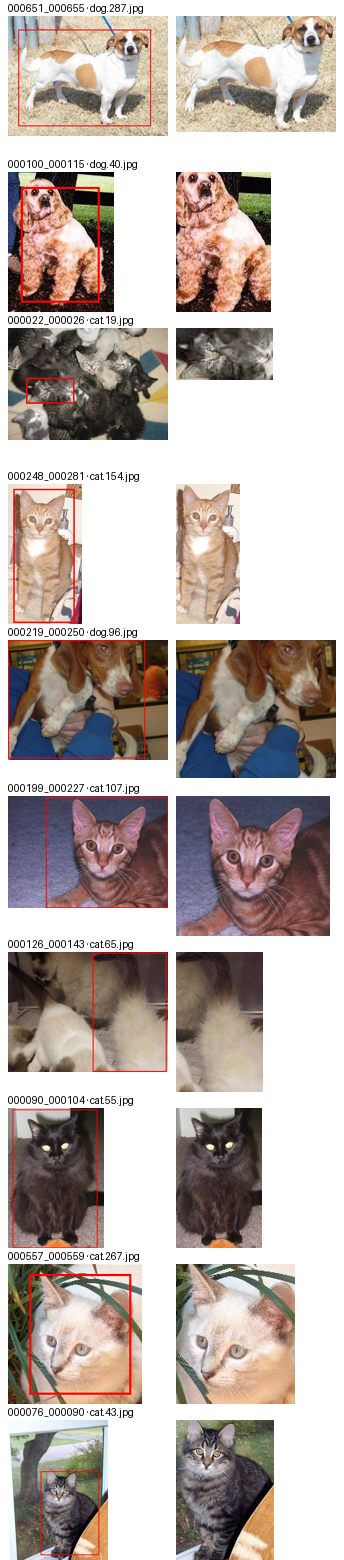
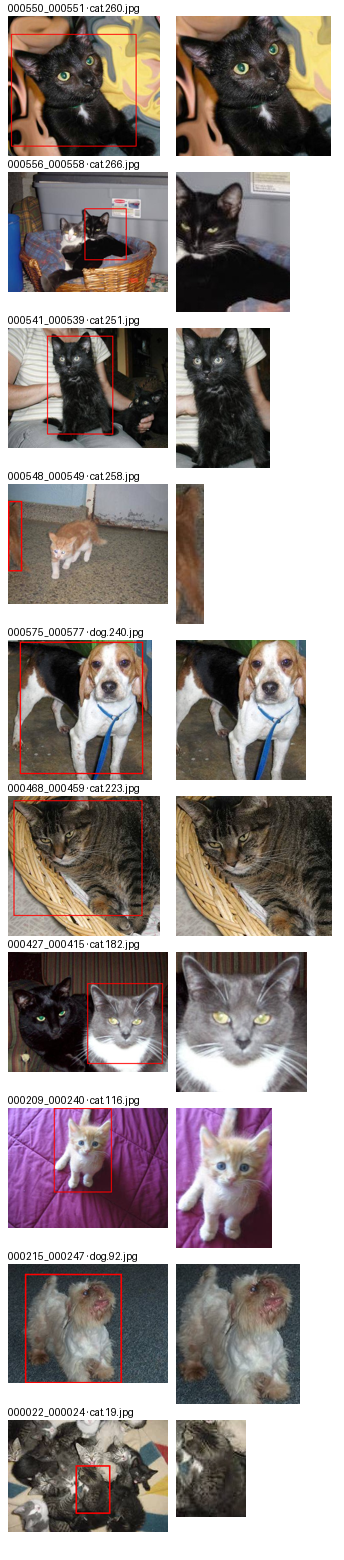
fix: selección determinística sin random en la auditoría (S2245) (P3-04)
SonarCloud marcaba python:S2245 por usar random (aunque fuera con semilla fija).
Se ordena por sha256(seed:crop_id), igual de determinístico y sin el hallazgo.
Se regeneran la auditoría y el dvc.lock.

diff --git a/app/crops/audit.py b/app/crops/audit.py
@@ -8,7 +8,7 @@ La comparación visual y la firma son humanas.
 
 import argparse
 import csv
-import random
+import hashlib
 import sys
 from pathlib import Path
 
@@ -31,10 +31,18 @@ def read_catalog(path: Path) -> list[dict]:
 def select_audit_samples(
     crops: list[dict], count: int = AUDIT_SAMPLES, seed: int = AUDIT_SEED
 ) -> list[dict]:
-    """Muestra determinística: misma lista y misma semilla dan los mismos recortes."""
+    """Muestra determinística: misma lista y misma semilla dan los mismos recortes.
+
+    Ordena por un hash `sha256` que incluye la semilla, en vez de `random`, para
+    no depender del generador pseudoaleatorio (evita el hallazgo S2245).
+    """
     if len(crops) <= count:
         return list(crops)
-    return random.Random(seed).sample(crops, count)
+
+    def rank(crop: dict) -> str:
+        return hashlib.sha256(f"{seed}:{crop['crop_id']}".encode()).hexdigest()
+
+    return sorted(crops, key=rank)[:count]
 
 
 def _source_with_box(sample: dict, images_dir: Path) -> Image.Image:

diff --git a/reports/crop_audit.md b/reports/crop_audit.md
@@ -6,15 +6,15 @@ Muestra de **10** recortes al azar (semilla `42`) de **668** recortes válidos. 
 
 | # | crop_id | origen | annotation_id | categoría | bbox (x, y, w, h) | recorte |
 |---|---|---|---|---|---|---|
-| 1 | `000651_000655` | `dog.287.jpg` | 655 | dog | (32.41015625, 42.66015625, 414.1171875, 300.61328125) | 415x302 |
-| 2 | `000100_000115` | `dog.40.jpg` | 115 | dog | (18.5, 21.300018310546875, 109.60003662109375, 162.4000244140625) | 111x163 |
-| 3 | `000022_000026` | `cat.19.jpg` | 26 | cat | (36.02734375, 99.921875, 96.05859375, 51.05859375) | 97x52 |
-| 4 | `000248_000281` | `cat.154.jpg` | 281 | cat | (11.1640625, 10.046875, 126.89453125, 277.3671875) | 128x278 |
-| 5 | `000219_000250` | `dog.96.jpg` | 250 | dog | (0, 1.02734375, 427.71484375, 368.5625) | 428x369 |
-| 6 | `000199_000227` | `cat.107.jpg` | 227 | cat | (118.08984375, 4.73046875, 380.91015625, 345.26953125) | 381x346 |
-| 7 | `000126_000143` | `cat.65.jpg` | 143 | cat | (264.0156469498761, 2.1093664350919425, 230.8177152122371, 372.73438610835) | 231x373 |
-| 8 | `000090_000104` | `cat.55.jpg` | 104 | cat | (16.800018310546875, 5.5999603271484375, 303.1999816894531, 494.40003967285156) | 304x495 |
-| 9 | `000557_000559` | `cat.267.jpg` | 559 | cat | (30.5, 14.9000244140625, 143.20001220703125, 168.80001831054688) | 144x170 |
-| 10 | `000076_000090` | `cat.43.jpg` | 90 | cat | (116.4000244140625, 183.1999969482422, 208, 299.1999816894531) | 209x300 |
+| 1 | `000550_000551` | `cat.260.jpg` | 551 | cat | (10.800018310546875, 59.69999694824219, 411.1999816894531, 369.6000061035156) | 412x371 |
+| 2 | `000556_000558` | `cat.266.jpg` | 558 | cat | (239.60003662109375, 113, 131.199951171875, 161.60000610351562) | 132x162 |
+| 3 | `000541_000539` | `cat.251.jpg` | 539 | cat | (122, 24.20001220703125, 206.4000244140625, 307.1999816894531) | 207x308 |
+| 4 | `000548_000549` | `cat.258.jpg` | 549 | cat | (0, 38.100006103515625, 31.20001220703125, 157.60003662109375) | 32x158 |
+| 5 | `000575_000577` | `dog.240.jpg` | 577 | dog | (28, 4.70001220703125, 294.4000244140625, 316.0000305175781) | 295x317 |
+| 6 | `000468_000459` | `cat.223.jpg` | 459 | cat | (17.70001220703125, 13.699996948242188, 396.79998779296875, 356.8000183105469) | 398x358 |
+| 7 | `000427_000415` | `cat.182.jpg` | 415 | cat | (247.10003662109375, 97.80001831054688, 235.199951171875, 250.4000244140625) | 236x252 |
+| 8 | `000209_000240` | `cat.116.jpg` | 240 | cat | (143.4453125, 0, 180.171875, 263.66796875) | 181x264 |
+| 9 | `000215_000247` | `dog.92.jpg` | 247 | dog | (33.2578125, 19.8515625, 189.02734375, 213.1484375) | 190x214 |
+| 10 | `000022_000024` | `cat.19.jpg` | 24 | cat | (135.828125, 90.70703125, 68.1953125, 95.30859375) | 70x97 |
 
 **Firmado por:** ______________________  **Fecha:** ______________
